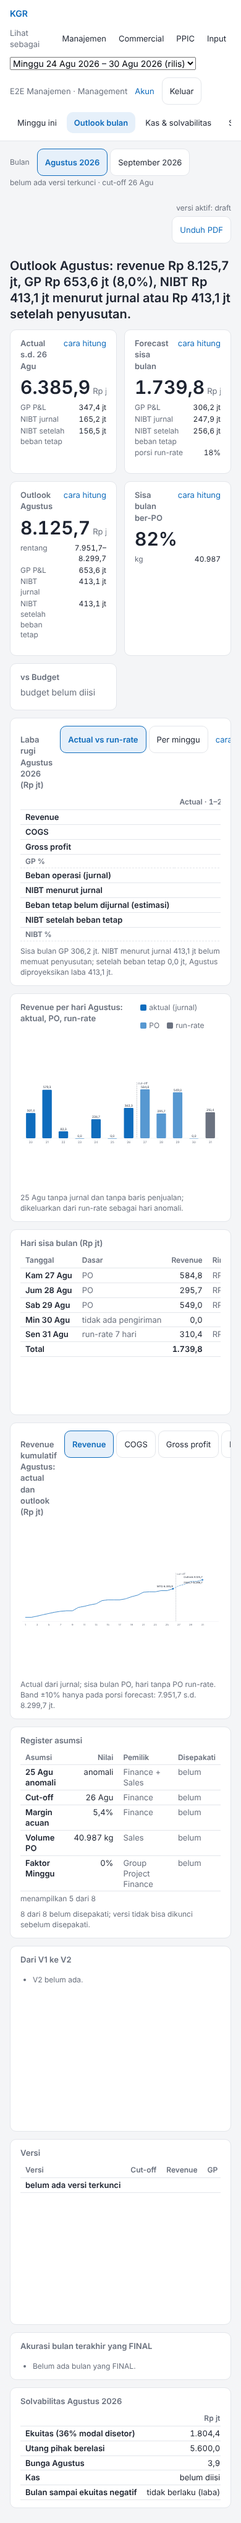
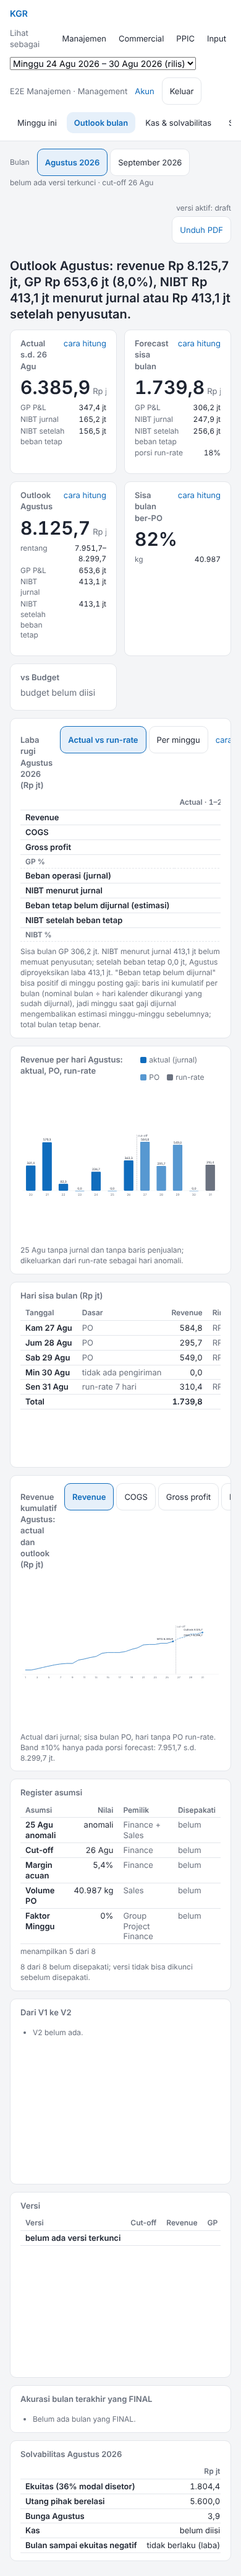
docs(v5.2-a6): O16, O17, O19 (Q-v5.2-99 selesai) di a6.md dan CHANGELOG; tangkapan layar diperbarui (22 PNG)
a6.md: bagian O16, O17, O19 dengan file:baris, nama tes dan bukti e2e; tabel ringkasan; Q-v5.2-99 selesai,
Q-v5.2-101 (O16 per kunci SKU dan batas stok, Manajemen ikut dikurangi) dan Q-v5.2-102 (Perlu keputusan
tetap di bawah simulasi di 390 px); bagian "tidak dikerjakan" diperbarui. Tangkapan layar dibuat ulang dari
run e2e penuh (PG16 lokal + PostgREST 12 + mock auth) dan ditambah minggu-ini-390-keputusan-tanpa-membuka-laba-rugi.png.

Claude-Session: https://claude.ai/code/session_01PnJPiPyjnWyT3jytRNYv3G

diff --git a/docs/v5.2/a6.md b/docs/v5.2/a6.md
@@ -1,8 +1,9 @@
-# Irisan A6 — UI: urutan tile, label sumber, nav Finance, .xls, ribuan ambigu (PRD v5.2-A R75–R79; Q-v5.2-36, -50, -52)
+# Irisan A6 — UI: urutan tile, label sumber, nav Finance, .xls, ribuan ambigu; O16, O17, O19 (PRD v5.2-A R75–R79; Q-v5.2-36, -50, -52, -99)
 
 Branch `v5.2/a6-ui`. Cabang ini sudah ada di remote dengan delapan komit (R75, R77, R79 dan sebagian R76, R78) di atas dasar lama (162 komit di belakang `main`); komit itu dipertahankan,
 `origin/main` digabung ke dalamnya (merge, bukan rebase, tanpa force-push; empat kali, terakhir `f5ec2be` = PR #59, sesudah PR #55 yang mematikan deploy pratinjau Vercel untuk `v*/**`), dan sisanya dikerjakan di atasnya. Satu perubahan komit lama dibalik:
 R78 di komit lama **menghapus** `.xls` dari `accept` ("Q-v5-42 belum disetujui"); keputusan v5.2 (`docs/v5/QUESTIONS.md`, Q-v5-42: SheetJS 0.20.3 disetujui, `.xls` Accurate diterima) membalikkan default itu, jadi `.xls` dibaca.
+Sesudah penyerahan pertama, Q-v5.2-99 diputuskan (O16, O17 dan O19 **diputuskan**; keputusan itu adalah keputusan pemilik produk yang ditunggu Larangan PRD-A "tidak mengubah tata letak Manajemen (O17)"), dan ketiganya dikerjakan di cabang ini (bagian 2, "O16", "O17", "O19").
 Tanpa PR, tanpa perubahan di `supabase/**`, tanpa koneksi ke Supabase atau Vercel mana pun, tanpa menyentuh `computeWeek`, golden v1, paritas dan snapshot.
 
 **Lingkungan yang disebut di setiap bukti:** "vitest" = tes unit/komponen dengan klien Supabase tiruan di memori (bukan database); "PG16 lokal + PostgREST 12 + mock auth" = `pnpm e2e`
@@ -20,7 +21,10 @@ Tanpa PR, tanpa perubahan di `supabase/**`, tanpa koneksi ke Supabase atau Verce
 | Q-v5.2-50 C42 baris efektif, pola yang dipakai | selesai | vitest `c42-yield` (6); e2e T7 3b/3c tanpa setup `boneless` ("penahan salin: (tidak ada)") |
 | Q-v5.2-52 PPIC bangun ulang antrean | selesai | vitest `rebuild-until` (5), `alokasi-rebuild-action` (13); e2e T7 6b dan 7b, A6 langkah 5 (10 tanggal) |
 | Q-v5.2-36 catatan idle tanpa kg LB | selesai | vitest `idle-skipped` (5) — **hanya vitest**; tidak ada e2e (fixture tidak punya tarif overhead berbasis) |
-| Tangkapan layar 1366×768, 899, 390 px, enam layar | selesai | `docs/v5.2/bukti/a6/` (18 PNG), `E2E_SCREENS=1 pnpm e2e` |
+| O16 stok bebas Komersial = stok bebas − komitmen terkunci minggu depan yang belum tertutup PO (PRD v5 §4.6); catatan tile menyebut kedua angka; hilang = "belum ada" (R64) | selesai (Q-v5.2-99) | vitest `free-stock` (16: aritmetika termasuk PO sebagian dan tanpa komitmen terkunci, layar Komersial, pemuat, baris status Manajemen); e2e A6 langkah 1d: angka dihitung dari database lalu dicocokkan dengan catatan, kartu dan peringkat (PG16 lokal + PostgREST 12 + mock auth) |
+| O17 tile laba rugi Manajemen tertutup bawaan di ≤ 768 px (dapat dibuka; tata letak > 768 px tidak berubah) | selesai (Q-v5.2-99) | vitest `pl-mobile` (5 tes O17: markup, stylesheet, tile galat, bulan tidak ikut); e2e A6 langkah 1c di 390 px: laba rugi tertutup, "Perlu keputusan" terlihat tanpa membukanya, tanpa tombol di 1366 dan 899 px (PG16 lokal + PostgREST 12 + mock auth); tangkapan layar `minggu-ini-390-keputusan-tanpa-membuka-laba-rugi.png` |
+| O19 catatan "Beban tetap belum dijurnal" bisa positif di minggu posting gaji | selesai (Q-v5.2-99) | vitest `pl-mobile` (3 tes O19: positif → catatan, negatif/kosong → tidak, kolom bagian/anggaran tidak memicu); e2e A6 langkah 1c: sel positif (24–30 Agu) dan catatan tampil di layar (PG16 lokal + PostgREST 12 + mock auth) |
+| Tangkapan layar 1366×768, 899, 390 px, enam layar | selesai | `docs/v5.2/bukti/a6/` (22 PNG: 18 enam layar × tiga lebar, 3 layar khusus, 1 untuk O17), `E2E_SCREENS=1 pnpm e2e` |
 
 ## 2. Per requirement
 
@@ -95,6 +99,42 @@ Tanpa PR, tanpa perubahan di `supabase/**`, tanpa koneksi ke Supabase atau Verce
   (`apps/web/app/w/[week]/costing/page.tsx:74`) menulis "belum dihitung" dan "kapasitas idle belum dihitung: batch tanpa kg LB (nomor batch)" di kartu tarif itu, bukan angka idle dari kg yang kosong dihitung 0. Tanpa kontrol baru.
 - Tes: `apps/web/lib/v5/idle-skipped.test.ts` (5, **vitest saja**). Fixture e2e tidak punya tarif overhead berbasis dan batch mode sendiri, jadi tidak ada bukti e2e.
 
+### O16 — stok bebas Komersial dikurangi komitmen terkunci minggu depan (Q-v5.2-99)
+
+- Aturan (PRD v5 §4.6; keputusan v5.2): stok bebas = saldo lot − reservasi alokasi (seperti sebelumnya) **− komitmen terkunci minggu depan yang belum tertutup baris PO**. Per kunci SKU lengkap (dengan bentuk: `RPA|Karkas|Fresh`, `…|Frozen`): yang belum tertutup = `max(0, komitmen terkunci − kg PO Confirmed minggu depan kunci itu)`
+  (aturan K26/K46 yang sama dengan `commitmentDemand`: versi terkunci tertinggi per kunci dan ukuran dihitung sekali); yang dikurangkan dari stok kunci itu = `min(stok bebas, belum tertutup)`. Sisa komitmen yang tidak terbawa stok (stok kunci itu kurang atau tidak ada) disebut **kebutuhan produksi**, bukan stok negatif.
+  Baris PO tanpa kg tidak dianggap 0 kg: ia tidak menutup apa pun dan jumlahnya disebut di catatan. Draf dan versi yang digantikan tidak dihitung.
+- `apps/web/lib/v5/free-stock.ts:45` `reserveForCommitments` (murni), `:71` `netFreeKg`, `:82` `freeStockNote`. Bentuk catatan: "Stok bebas 143.262 kg dikurangi komitmen terkunci minggu depan yang belum tertutup PO 13.402 kg = 129.860 kg." (+ "3.598 kg komitmen melebihi stok bebas SKU-nya: itu kebutuhan produksi, bukan stok." bila ada);
+  tanpa komitmen terkunci: "Tidak ada komitmen terkunci minggu depan; stok bebas tidak dikurangi."; semua tertutup PO: "… sudah tertutup PO; stok bebas tidak dikurangi."; tidak terbaca: "Komitmen terkunci minggu depan: belum ada (belum bisa dibaca), jadi stok bebas belum dikurangi." (R64).
+- `apps/web/lib/v5/free-stock-data.ts:13` `loadCommitmentCover(sb, nextWeek)`: `sales_commitment` minggu depan (tidak dihapus, tidak digantikan) dan `sales_line` berstatus Order di minggu itu (tanggal kirim, atau tanggal PO bila tanggal kirim kosong) dengan `demand_status` Confirmed atau kosong; kunci = `key_manual` atau `item_map`.
+  Hanya tabel dan kolom yang sudah ada di `supabase/migrations` di `main` (`check-query-columns`: 0 tak dikenal); tanpa objek DB baru.
+- `apps/web/lib/v5/komersial-data.ts:79` pemuatan komitmen (`tileData`: bila gagal semua tile stok dan `t-komitmen` menampilkan galat K41, bukan stok seolah tanpa komitmen), `:81` `reserveForCommitments` dengan cakupan SKU Sales (`allowed`), `:89` `free_kg` baris stok = `netFreeKg`;
+  `apps/web/lib/v5/komersial.ts:94` catatan kartu "Stok bebas belum ke PO" (`freeStockNote`), `:123` catatan peringkat: kolom "Bebas kg" sudah dikurangi (N kg). Kartu, peringkat dan nilai Rp memakai kg bersih yang sama (baris stok yang sama).
+- **Perluasan yang disengaja** (satu angka di seluruh aplikasi): `apps/web/lib/v5/management-data.ts:109–119` baris status "Stok bebas belum ke PO" di Manajemen memakai kg bersih yang sama (minggu sesudah minggu tanggal data), dan `management.ts:125` menambahkan " · setelah komitmen terkunci N kg" bila ada yang dikurangkan. Tanpa ini Manajemen dan Komersial menampilkan dua angka berbeda untuk nama yang sama.
+- Tes: `apps/web/lib/v5/free-stock.test.tsx` (16, vitest): aritmetika (tanpa komitmen atau hanya draf; terkunci 15.000 segar + 2.000 beku tanpa PO = 17.000 dikurangkan per baris; **PO sebagian** 6.000 dari 15.000 → 9.000 dikurangkan; tertutup penuh atau lebih, PO bentuk lain tidak menutup;
+  komitmen lebih besar dari stok → stok 0 dan sisa = kebutuhan produksi; SKU terkunci tanpa stok; versi tertinggi sekali; PO tanpa kg disebut; cakupan Sales; tidak terbaca = "belum ada"), layar Komersial (catatan dua angka; tanpa komitmen; tak terbaca; tak berlaku tanpa catatan),
+  pemuat dengan sesi Sales dan database di memori (bersih 20.000 − (15.000 − 6.000) = 11.000; beku 5.000 − 2.000 = 3.000; PO tentatif dan PO minggu berikutnya tidak menutup; tanpa komitmen terkunci; komitmen tak terbaca → galat K41 di semua tile stok), baris status Manajemen.
+  e2e A6 langkah 1d (PG16 lokal + PostgREST 12 + mock auth, Kepala Sales): angka bersih dihitung dari tabel database dan dicocokkan dengan teks catatan: stok 143.262 kg, dikurangi 13.402 kg, bersih 129.860 kg, 3.598 kg kebutuhan produksi; kartu dan peringkat memakai kg bersih; baris status Manajemen sama.
+
+### O17 — laba rugi Manajemen tertutup bawaan di ≤ 768 px (Q-v5.2-99)
+
+- Hanya CSS dan satu kotak centang (jalan sebelum hidrasi, tidak ada pergeseran tata letak di atas 768 px, tanpa JavaScript tambahan): `apps/web/components/v4/Tile.tsx:45–49` (prop `collapse`, kelas `has-collapse`, `<input type="checkbox" class="tile-collapse-toggle">` dan label "Tampilkan tabel laba rugi" / "Sembunyikan tabel laba rugi" sebelum badan tile),
+  `apps/web/app/v4.css:178–193` (di luar `@media (max-width: 768px)` tombol dan kotak centang tidak ada; di dalamnya tile `has-collapse` tidak menahan tinggi minimum, badan dan catatan disembunyikan selama kotak centang tidak dicentang; tombol disembunyikan untuk cetak).
+  Jalur data: `apps/web/lib/v4/minggu-ini.ts:63` `TileModel.collapse`, `apps/web/components/v4/TilePage.tsx:101` (tile galat tidak dilipat supaya pesannya terlihat), `apps/web/lib/v5/pl-tiles.ts:74` `collapseMobile`, dipasang hanya di `:272` (tile `t-laba-rugi` Minggu ini); Outlook bulan dan tile lain tidak berubah.
+- Judul dan nama tile tetap terlihat saat tertutup; kotak centang dapat difokus dan dioperasikan dengan papan ketik (label untuk tombol).
+- Tes: `apps/web/lib/v5/pl-mobile.test.tsx` (5 tes O17, vitest): hanya tile laba rugi Minggu ini yang dapat dilipat (bulan dan tile lain tidak); markup (kotak centang tak tercentang dan tombolnya sebelum badan, judul, badan dan catatan tetap di tile, "Perlu keputusan" tanpa kotak centang); tile galat tidak dapat dilipat;
+  stylesheet (tombol dan kotak centang tidak ada di atas 768 px, badan hanya disembunyikan di dalam media query); stylesheet (dibuka → label "Sembunyikan", tertutup tidak menahan 300 px tile tinggi).
+  e2e A6 langkah 1c (PG16 lokal + PostgREST 12 + mock auth, role management, Chromium): di 1366 dan 899 px tidak ada tombol; di 390 px kotak centang tak tercentang, tabel dan catatan tersembunyi, tinggi tile tertutup 190 px (< 260), judul "Perlu keputusan" terlihat setelah gulir (y 413 dari 844) tanpa membuka laba rugi,
+  membuka memperlihatkan tabel dan menutup menyembunyikannya, halaman Outlook bulan tetap terbuka. Tangkapan layar `docs/v5.2/bukti/a6/minggu-ini-390-keputusan-tanpa-membuka-laba-rugi.png`.
+  **Jujur**: di 390 px "Perlu keputusan" masih jauh di bawah halaman (atas 2548 px tertutup, 2926 px terbuka), di bawah simulasi; ia terlihat tanpa membuka laba rugi, tidak naik ke atas. Menaikkannya berarti mengubah urutan (y) tile, itu di luar O17.
+
+### O19 — catatan "Beban tetap belum dijurnal" yang positif (Q-v5.2-99)
+
+- `apps/web/lib/v5/pl-tiles.ts:59` `FIXED_POSITIVE_NOTE` dan `:60` `fixedPositiveNote(t)`: bila baris "Beban tetap belum dijurnal" positif di kolom nominal (bukan kolom bagian atau anggaran) dan nilainya diketahui, catatan tile ditambah (di `:95`, sebelum catatan memo):
+  "\"Beban tetap belum dijurnal\" bisa positif di minggu posting gaji: baris ini kumulatif per bulan (nominal bulan ÷ hari kalender dikurangi yang sudah dijurnal), jadi minggu saat gaji dijurnal mengembalikan estimasi minggu-minggu sebelumnya; total bulan tetap benar."
+  Tidak ada perubahan angka; hanya penjelasannya, dan hanya ketika angkanya positif.
+- Tes: `apps/web/lib/v5/pl-mobile.test.tsx` (3 tes O19, vitest): positif di satu kolom → teks catatan muncul di tile; semua negatif atau tidak diketahui (`fixedMissing`) → tidak ada kalimat itu; kolom bagian dan anggaran positif tidak memicu. e2e A6 langkah 1c: sel positif (minggu 24–30 Agu) dan teks catatan tampil di layar (PG16 lokal + PostgREST 12 + mock auth).
+
 ## 3. Gate
 
 Dijalankan di atas `origin/main` `f5ec2be` (PR #59, EXPECTED_SCHEMA 5.2.6) yang digabung ke cabang; head cabang di laporan. Container cloud, Node 22, pnpm 10.28.0, `xlsx` 0.18.5 lewat override lokal sementara
@@ -117,9 +157,9 @@ T7 di main (A5) 49 cek (di A6: 51: langkah 6b/7b memakai tombol PPIC dan memerik
 (1 gagal, 1 respons tak terduga; langkah lain, T7 51, matriks 120, F19 16 dan volume 13 hijau). Run ulang `T7 A6` hijau (A6 80/0), dan 12 pemuatan ulang `/komersial` oleh Kepala Sales pada database yang sama dengan data Oktober tidak mengulanginya; run penuh mode CI sesudahnya hijau.
 Sebabnya belum ditemukan (komponen klien layar itu tidak memakai waktu, acak atau lokal); tidak ada percobaan ulang otomatis di harness yang menyembunyikannya. Dicatat sebagai Q-v5.2-100 di bawah.
 
-## 4. Pertanyaan baru (Q-v5.2-90 … 100)
+## 4. Pertanyaan baru (Q-v5.2-90 … 102)
 
-Keputusan bawaan diambil agen atas delegasi Dika; tidak ada yang menunggu untuk berjalan. Belum dimasukkan ke `docs/v5/QUESTIONS.md` supaya tidak bentrok dengan cabang lain; pindahkan saat merge (nomor 90–100 dicadangkan untuk A6).
+Keputusan bawaan diambil agen atas delegasi Dika; tidak ada yang menunggu untuk berjalan. Belum dimasukkan ke `docs/v5/QUESTIONS.md` supaya tidak bentrok dengan cabang lain; pindahkan saat merge (nomor 90–102 dicadangkan untuk A6).
 
 | # | Pertanyaan | Pemilik | Keputusan bawaan |
 |---|---|---|---|
@@ -132,12 +172,15 @@ Keputusan bawaan diambil agen atas delegasi Dika; tidak ada yang menunggu untuk 
 | Q-v5.2-96 | Q-v5.2-52: satu tekan paling banyak 60 tanggal / 40 detik (sisa dilaporkan, tekan lagi); tanggal berstatus `failed` tidak diantrekan ulang oleh tombol (tetap menahan C45 sampai Admin → Modul); pesan sukses hilang bersama formulir ketika STALE terkuras. | PPIC | seperti dibangun |
 | Q-v5.2-97 | Q-v5.2-50: "pola yang dipakai rencana" = kunci `patternMix` rencana, kosong = karkas (O33 b). Baris yield pola lain tetap placeholder sampai K27 tahap 2; kunci non-Karkas STD (Kepala, Ceker, …) tetap harus diganti PPIC lewat upload (T7 mengunggah enam kunci). | PPIC | seperti dibangun |
 | Q-v5.2-98 | Q-v5.2-36: catatan hanya di layar costing mingguan; baris "Biaya kapasitas idle" di P&L Outlook bulan dan Minggu ini tetap tidak ditulis untuk periode yang dilewati tanpa tanda di tabel P&L. Perlukah kontrol sendiri (tidak dibangun, sesuai brief)? | Finance | tanpa kontrol |
-| Q-v5.2-99 | Keputusan v5.2 mencantumkan A6 untuk O16 (stok bebas − komitmen terkunci), O17 (laba rugi Manajemen collapsed ≤ 768 px) dan O19 (catatan tile angka positif), tetapi brief irisan ini (R75–R79 dan tiga temuan) dan Larangan PRD (tidak mengubah tata letak Manajemen, O17) tidak memuatnya. Tidak dikerjakan. | Pemilik produk | ditunda ke irisan berikutnya |
+| Q-v5.2-99 | Keputusan v5.2 mencantumkan A6 untuk O16 (stok bebas − komitmen terkunci), O17 (laba rugi Manajemen collapsed ≤ 768 px) dan O19 (catatan tile angka positif); brief pertama irisan ini tidak memuatnya dan Larangan PRD (tidak mengubah tata letak Manajemen, O17) menunggu keputusan itu. | Pemilik produk | **selesai**: diputuskan, dikerjakan di `v5.2/a6-ui` (bagian 2: O16, O17, O19). Interpretasi yang diambil: lihat Q-v5.2-101 dan Q-v5.2-102 |
 | Q-v5.2-100 | Galat hidrasi React #418 sekali di `/komersial` (Kepala Sales) pada satu run e2e A6; tidak terulang dalam dua run ulang dan 12 muat ulang. Sebab tidak diketahui. Bila muncul lagi di CI, journey merahkan langkahnya (tidak ada percobaan ulang). | Pelaksana (siapa pun yang melihatnya di CI) | diamati; tidak diubah |
+| Q-v5.2-101 | O16 dibaca per kunci SKU lengkap (dengan bentuk Fresh/Frozen), dengan batas stok: komitmen yang melebihi stok bebas SKU-nya tidak membuat stok negatif, selisihnya disebut kebutuhan produksi. Komitmen terkunci tanpa kunci di stok (SKU tak punya stok bebas) tidak mengurangi apa-apa. Dan baris status Manajemen ikut dikurangi (satu angka di seluruh aplikasi). | Kepala Sales, Pemilik produk | seperti dibangun; bila Manajemen harus menampilkan stok kotor, lepaskan `reservedKg` di `management-data.ts` |
+| Q-v5.2-102 | O17: di 390 px "Perlu keputusan" terlihat tanpa membuka laba rugi, tetapi masih di bawah halaman (di bawah simulasi, di atas catatan). Brief tidak meminta mengubah urutan (y) tile; yang diminta tertutup bawaan. Menaikkan keputusan ke atas simulasi berarti mengubah tata letak Manajemen di semua lebar. | Pemilik produk | tidak diubah |
 
 ## 5. Tidak dikerjakan dan batas
 
-- O16, O17, O19 (Q-v5.2-99). Pembaruan `xlsx` di `apps/web` ke 0.20.3 (Q-v5.2-90).
+- Pembaruan `xlsx` di `apps/web` ke 0.20.3 (Q-v5.2-90). (O16, O17, O19 / Q-v5.2-99 sudah dikerjakan, lihat bagian 2.)
+- O17 tidak menaikkan "Perlu keputusan" di halaman (Q-v5.2-102); O16 tidak mengubah `computeWeek`, golden v1, paritas atau snapshot (alokasi dan mart tidak disentuh; yang dikurangi hanya tampilan stok bebas Komersial dan Manajemen).
 - Q-v5.2-36 tanpa bukti e2e (fixture tidak punya tarif overhead berbasis); `Tile` v5 PPIC `c-biaya` memakai label "yield + harga LB" (Q-v5.2-91).
 - Tangkapan layar memakai role dan data e2e (sintetis) di PG16 lokal + PostgREST 12 + mock auth pada keadaan akhir T7 (Jum 28 Agu 2026, jam uji); bukan Supabase dan bukan data production.
 - Journey A6 menulis ke database e2e (setup SQL) dan memulihkannya (`snapshot.sh restore afterT7`) sebelum F19 dan volume; di `E2E_SKIP_UP=1` (T19) langkah SETUP-nya berhenti karena `E2E_PG_URL` kosong, jadi A6 hanya untuk tumpukan lokal.
@@ -148,7 +191,7 @@ Keputusan bawaan diambil agen atas delegasi Dika; tidak ada yang menunggu untuk 
 pnpm install                                   # lokal tanpa cdn.sheetjs.com: override sementara "@kgr/parsers>xlsx": "0.18.5", jangan di-commit
 pnpm typecheck && pnpm test && pnpm parity && pnpm snapshot:diff
 E2E_STRICT_XFAIL=1 pnpm e2e                    # T7 dan A6 termasuk; E2E_ONLY="T7 A6" untuk keduanya saja
-E2E_SCREENS=1 E2E_ONLY="T7 A6" pnpm e2e        # sekalian 18 tangkapan layar di tests/e2e/out/screens/A6-*.png
+E2E_SCREENS=1 E2E_ONLY="T7 A6" pnpm e2e        # sekalian 22 tangkapan layar di tests/e2e/out/screens/A6-*.png
 ```
 
 ## 7. Bukti tangkapan layar

diff --git a/CHANGELOG.md b/CHANGELOG.md
@@ -12,6 +12,9 @@ All notable changes to KGR Weekly Outlook. Format: Keep a Changelog; milestones 
 - Costing screen: "kapasitas idle belum dihitung: batch tanpa kg LB" for a tariff period that holds a batch without kg LB (Q-v5.2-36); `idleSkipped` in `lib/v5/costing-pl.ts`.
 - Link to the v4 upload wizard in the Finance panel of Input (R77, O23 (b)).
 - e2e: journey A6 (`tests/e2e/journey-A6.cjs`: R75–R79 and Q-v5.2-52 on the database T7 leaves) and, with `E2E_SCREENS=1`, the screenshots of the six main screens at 1366x768, 899 and 390 px.
+- O16 (decided, Q-v5.2-99): `lib/v5/free-stock.ts` (`reserveForCommitments`, `netFreeKg`, `freeStockNote`) and `lib/v5/free-stock-data.ts` (`loadCommitmentCover`): the free stock of Commercial is the stock less the locked commitments of next week that no Confirmed PO line covers (per SKU key with its form, capped at the stock, the rest is shown as production need); the tile note "Stok bebas belum ke PO" shows both numbers; an unreadable commitment is "belum ada" (R64) and a K41 error on the stock tiles. Tests `free-stock` (16).
+- O17 (decided, Q-v5.2-99): the Manajemen P&L tile of Minggu ini is collapsed by default at <= 768 px (checkbox + `v4.css`, no layout change above 768 px; `Tile` prop `collapse`, `TileModel.collapse`, `plTableTile` option `collapseMobile`). Tests `pl-mobile` (5) and e2e A6 step 1c at 390 px ("Perlu keputusan" visible without opening the P&L; screenshot).
+- O19 (decided, Q-v5.2-99): `FIXED_POSITIVE_NOTE` / `fixedPositiveNote` in `lib/v5/pl-tiles.ts`: when "Beban tetap belum dijurnal" is positive in an amount column the tile note says why (cumulative per month, correct by month). Tests `pl-mobile` (3).
 - Tests: engine `upload-validate` (R79); parsers `xls`; web `source-labels`, `upload-grid`, `release-rebuild`, `c42-yield`, `rebuild-until`, `alokasi-rebuild-action`, `idle-skipped`, R75 in `management-screens`.
 
 ### Changed
@@ -20,6 +23,7 @@ All notable changes to KGR Weekly Outlook. Format: Keep a Changelog; milestones 
 - `releaseWeek` rebuilds the seven days of the completeness grid (service client) before the K35 pre-check (R79); the Minggu ini page checks the role before `weekContext` (R79).
 - C42 judges the yield rows in effect, of the patterns the plan uses (karkas), so the `boneless` placeholders no longer hold "Salin ke batch" (Q-v5.2-50).
 - `upNum`: when both separators are present the last one is the decimal point ("1,234.5" = 1234,5; it was read as 1,2345).
+- The free stock on Commercial (cards, ranking, Rp value) and on the Manajemen status line is net of the locked commitments of next week not covered by a PO (O16); before it was the lot balance less the allocation reservations only.
 
 ## [v5.2-a3] Biaya final hanya dari alokasi, beban tetap per bulan, missing ≠ 0 (docs/PRD-v5.2-A-kode.md irisan A3, R59–R67; docs/v5.2/a3.md)
 

diff --git a/README.md b/README.md
@@ -52,7 +52,7 @@ pnpm build
   PostgreSQL 16 (`apt-get install postgresql-16`), `faketime`, binari PostgREST 12 di PATH, Chromium untuk Playwright
   (`npx playwright install --with-deps chromium`), `pnpm install`. Variabel: `tests/e2e/stack/env.sh` (semua path, port, URL, kunci dan
   user bisa diganti; journey yang sama dapat dijalankan terhadap URL staging dengan `E2E_SKIP_UP=1`, PRD v5.2-B T19). `E2E_BUILD=never`
-  memakai `apps/web/.next` yang dibuat `pnpm e2e:build`; `E2E_ONLY="T7 F19"` menjalankan sebagian; `E2E_SCREENS=1` membuat A6 juga mengambil 18 tangkapan layar enam layar utama (1366x768, 899, 390 px) di `tests/e2e/out/screens`.
+  memakai `apps/web/.next` yang dibuat `pnpm e2e:build`; `E2E_ONLY="T7 F19"` menjalankan sebagian; `E2E_SCREENS=1` membuat A6 juga mengambil 22 tangkapan layar (enam layar utama di 1366x768, 899, 390 px, ditambah layar khusus) di `tests/e2e/out/screens`.
   A6 menulis ke database lokal (SETUP) dan hanya untuk tumpukan lokal; terhadap staging jalankan `E2E_ONLY="T7"`. Penjelasan lengkap: `docs/v5.2/a5.md`, `docs/v5.2/a6.md`.
   Ketergantungan `cdn.sheetjs.com` (`xlsx` 0.20.3 di `@kgr/parsers`): job CI memakai cache pnpm store; bila host itu diblokir pada cache dingin,
   `pnpm install --frozen-lockfile` gagal dan job `engine`, `lint`, `e2e` ikut gagal (di lingkungan tanpa akses ke host itu pasang `xlsx@0.18.5`
